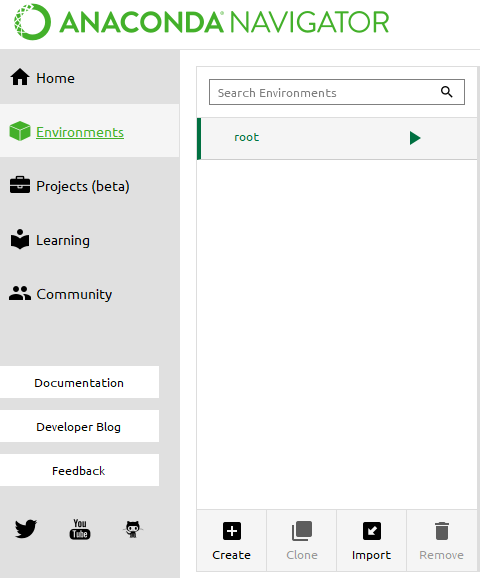
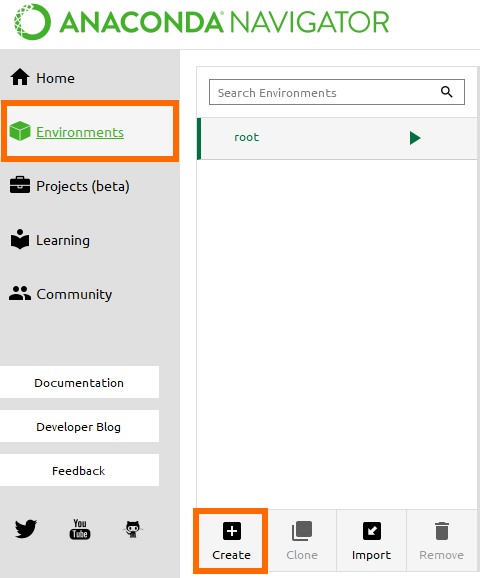
upd

Changed region(s): [[0.0, 0.1557, 0.375, 0.2803], [0.375, 0.872, 0.5625, 0.9965]]

diff --git a/_posts/2017-9-18-conda-tutorial.md b/_posts/2017-9-18-conda-tutorial.md
@@ -51,8 +51,6 @@ Creating and activating a new environment <a name="create"></a>
 
 To create a new environment: In Navigator, click the Environments tab, then click the Create button.
 
-![]({{ site.baseurl }}/images/conda-tutorial/click-env.PNG)
-
 ![]({{ site.baseurl }}/images/conda-tutorial/click-create.PNG)
 
 The Create new environment dialog box appears. In the Environment name field, type a descriptive name for your environment. We’ll create an environment using the newest version of Python, Python 3.6. In the Python version list, select Python 3.6. Click the Create button.
@@ -87,6 +85,8 @@ In the Install Packages window, review the packages to be installed, then click 
 ![]({{ site.baseurl }}/images/conda-tutorial/click-apply.PNG)
 
 In the confirmation dialog, click the Ok button. All package files and dependencies will be installed in your active environment.
+
+Note: it is necessary to install CUDA and the GPU-enabled version of Tensorflow if you want to run Tensorflow code on your GPU. Refer to [this](https://www.tensorflow.org/versions/r0.12/get_started/os_setup#optional_install_cuda_gpus_on_linux) part of Tensorflow tutorial to set this up.
 
 ### Package is not in the Anaconda package list ###
 
